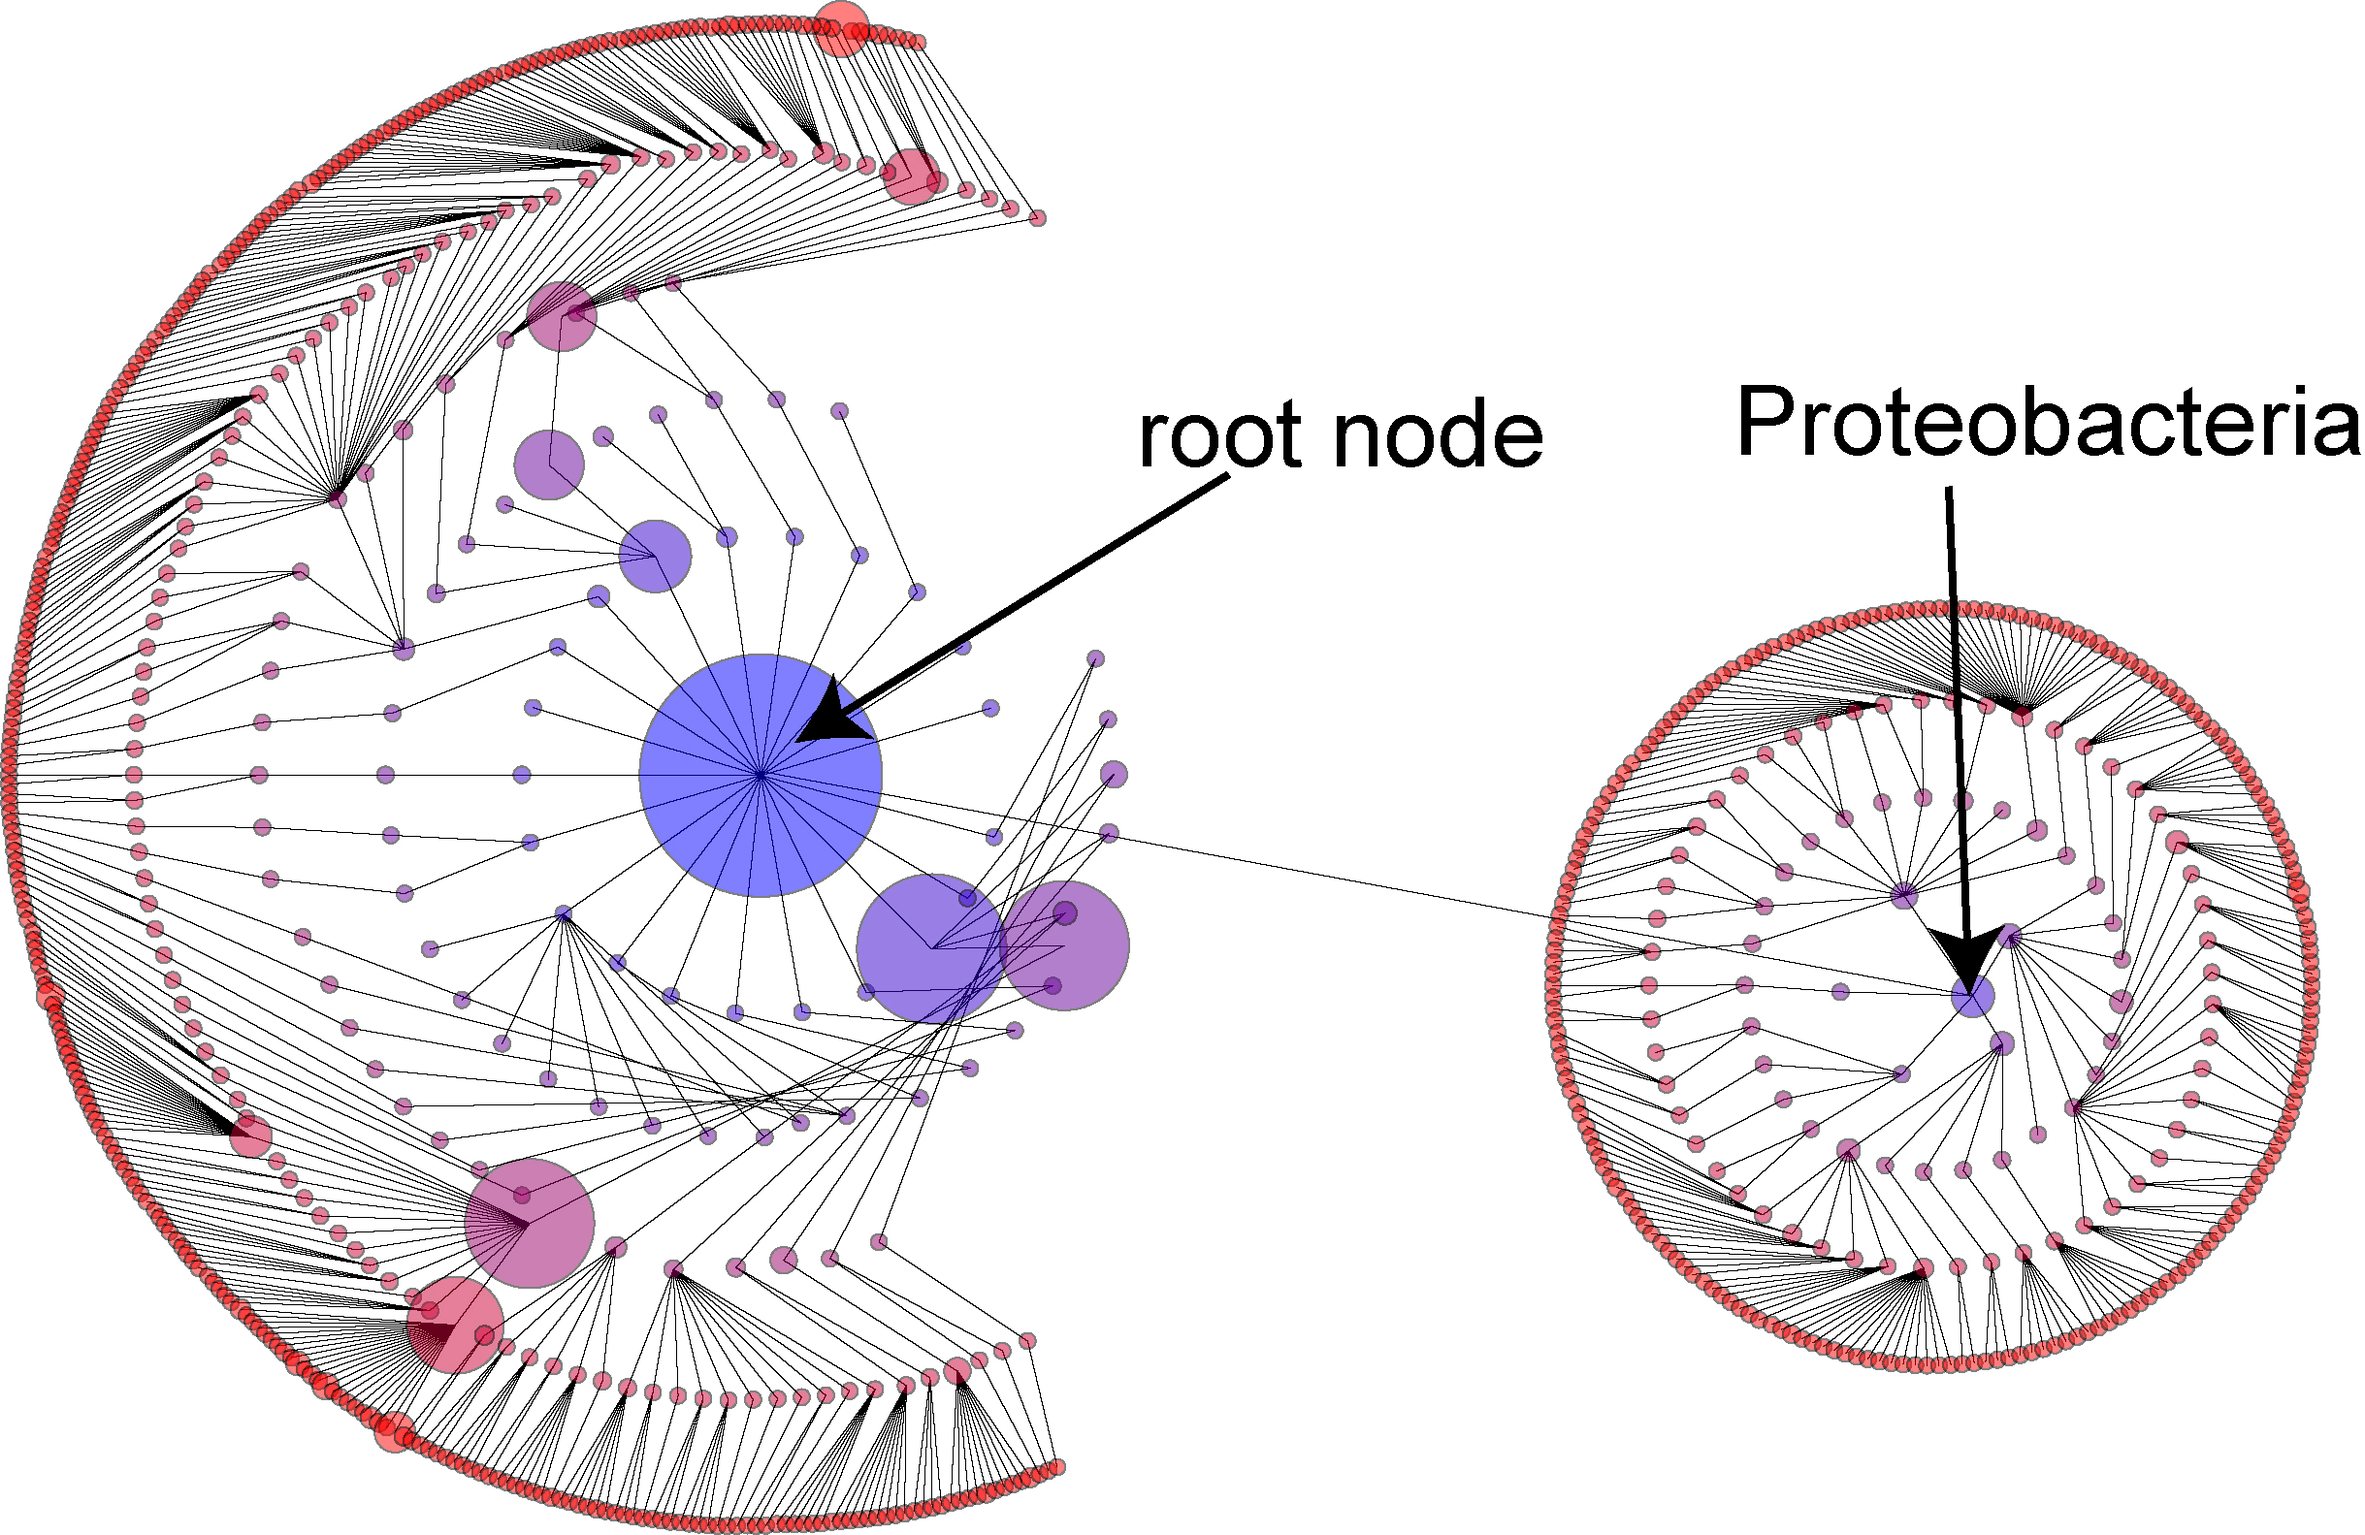
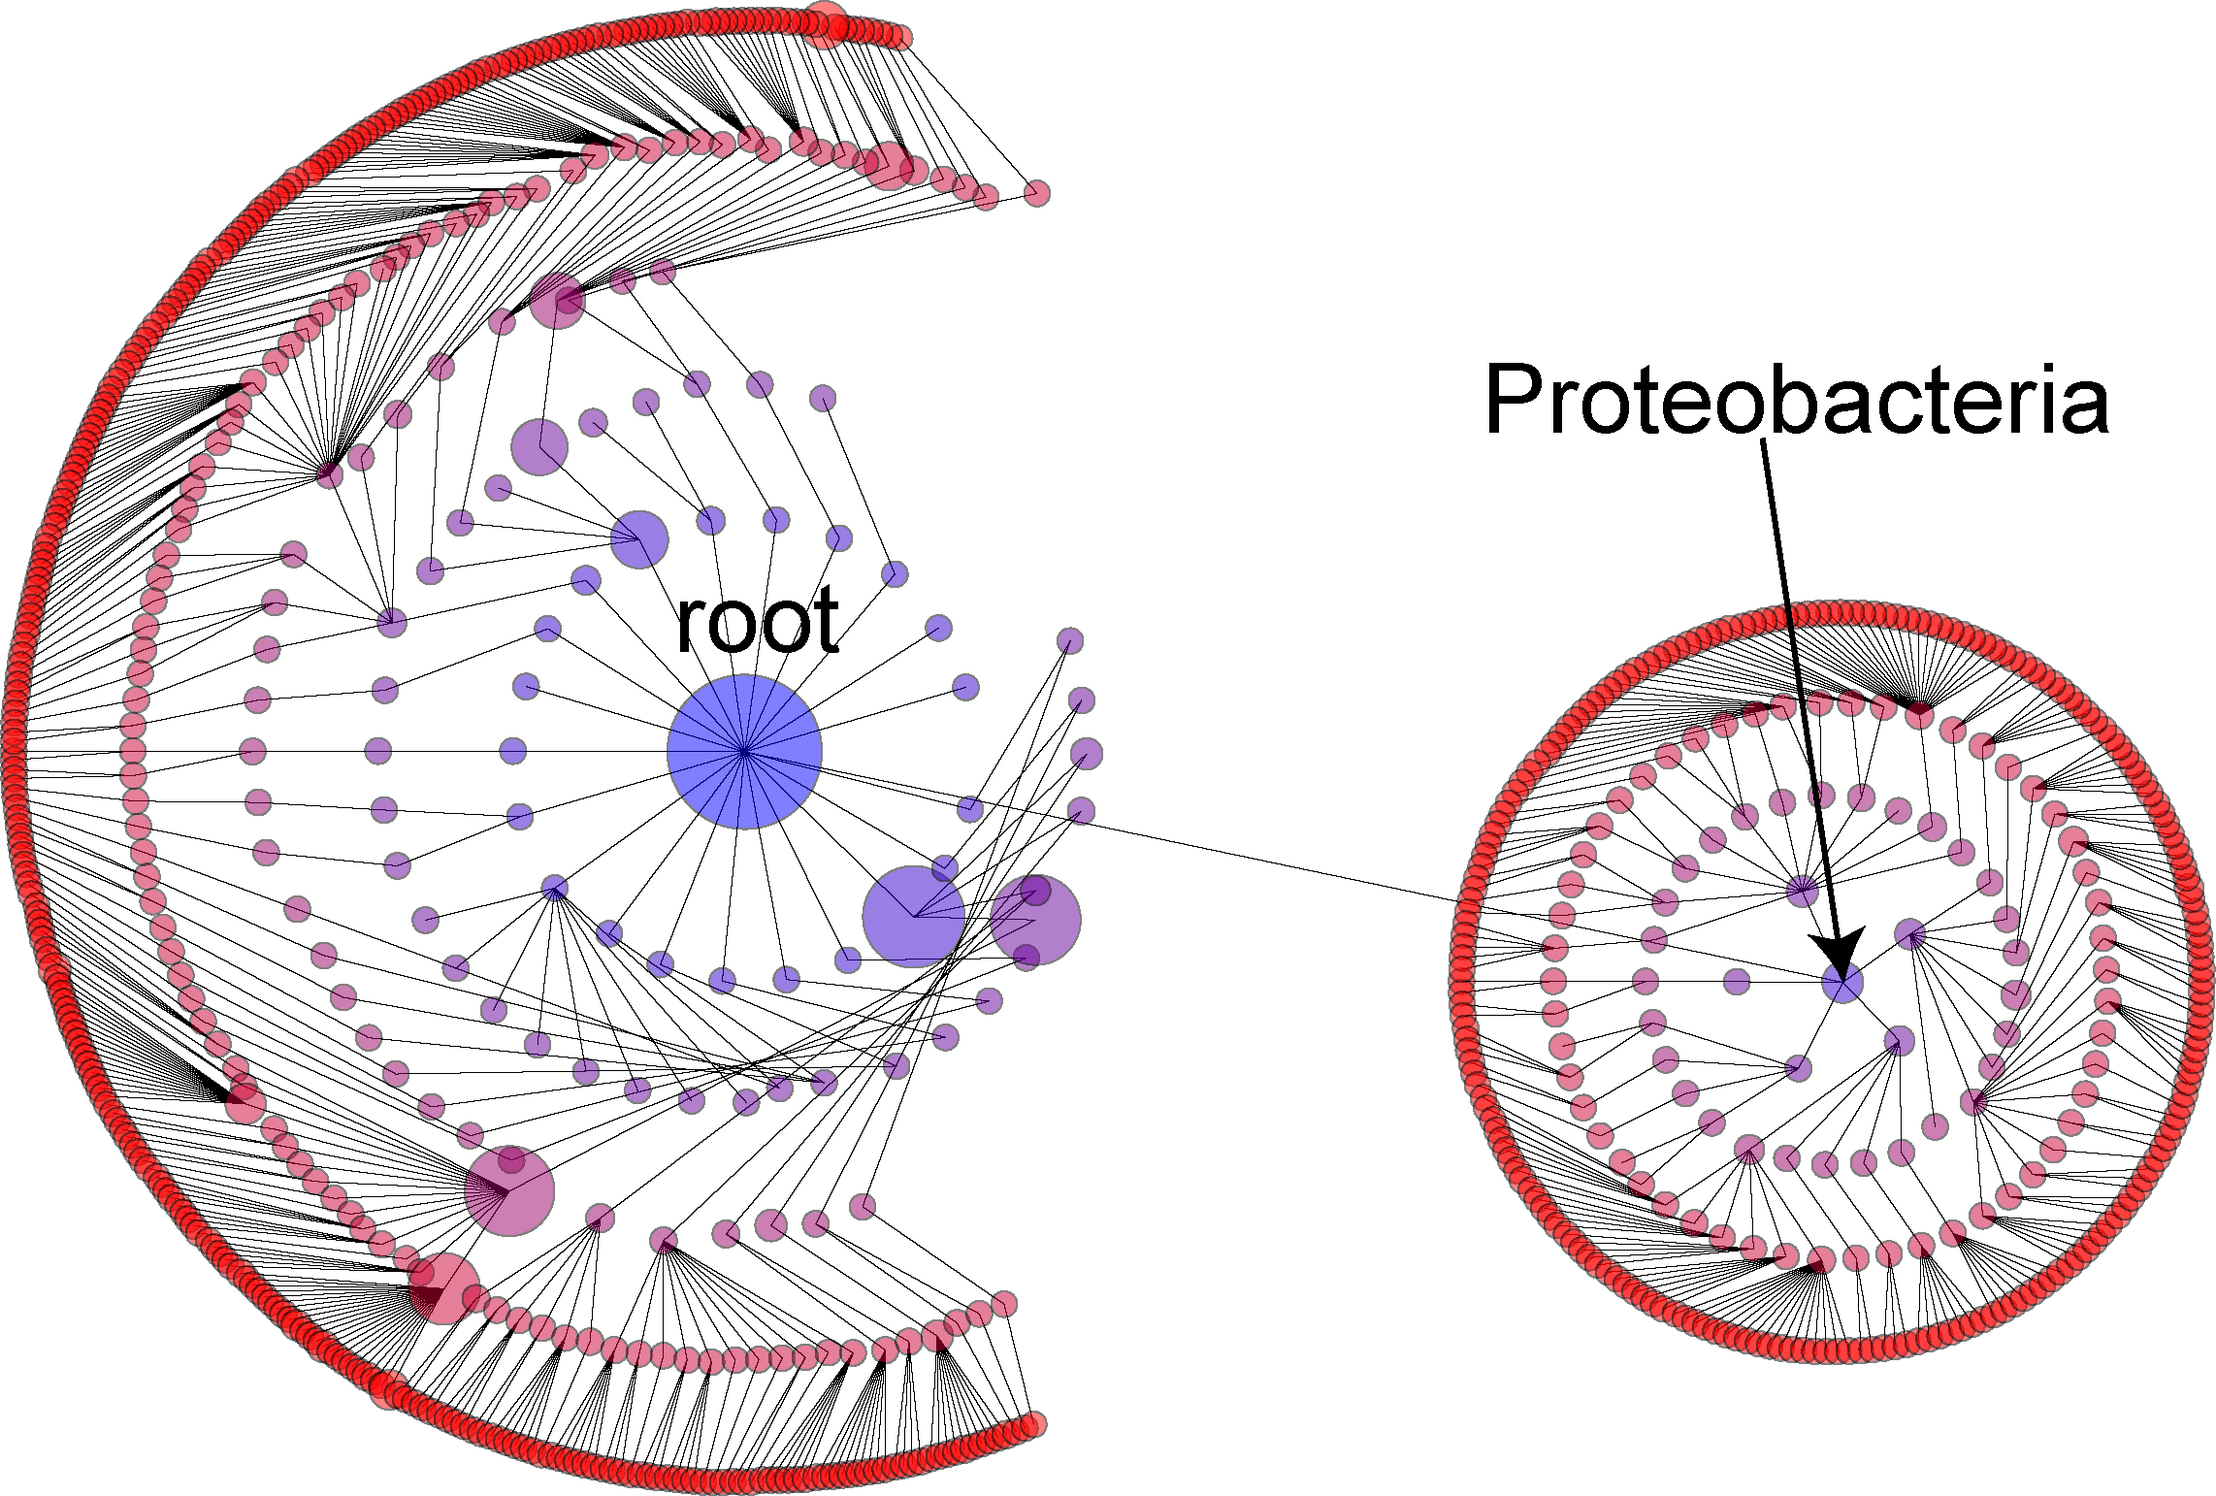
better images for the documentation; opacity now correctly defaults to fully non-trasparent..

diff --git a/src/genomicsForceDemo.html b/src/genomicsForceDemo.html
@@ -46,13 +46,13 @@
 		
 		<p>If in the <a href=ForceTree.html?FileToOpen=ismeJRDP_CaseControl.json>demonstration</a> we hover the mouse over each of 
 		the large dots at the phylum level, we see that the three most abundant phyla in our samples were Phylum Firmicutes (with 
-		340,933 sequences), Phylum Bacteroidetes (with 142,231 sequences)and Phylum Proteobacteria (with 67,926 sequences) as
+		340,933 sequences), Phylum Bacteroidetes (with 142,231 sequences) and Phylum Proteobacteria (with 67,926 sequences) as
 		we might expect from a human gut micro-environment.
 		
 		<p>One of the nice things about the demonstration is that we can switch between a traditional circular 
-		phylogenetic tree (as in the Figure above) and a Force Tree view.  We can do this by clicking on
-		the "reanimate" button in the left hand control panel.   When we do this, the view switches to a view in
-		which opposing forces position each node.  These forces include "gravity" which tends to pull each node
+		phylogenetic tree (as in the figure above) and a Force Tree view.  We can do this by clicking on
+		the "reanimate" button in the left hand control panel.   On hitting this button, we switch to a view 
+		 in which opposing forces position each node.  These forces include "gravity" which tends to pull each node
 		to the center of the screen, a repulsive focce between each node and an elastic spring-like force that 
 		in this case reflects the phyologentic distance between different taxonomic levels (so for example the
 		distance between genus and family will be shorter than the distance between genus and order):
@@ -66,7 +66,7 @@
 		<p> To switch back to the constrained view, hit "T" on the keyboard (or click on the "arrange (entire tree)" button
 		 in the left control panel).
 		
-		<p>Another nice thing about the view is that we can drag individual sections of the tree to where we want.
+		<p>Another nice thing about the view is that we can drag individual sections of the tree to different regions of the screen.
 		In the below view, we have dragged the node representing Proteobacteria to the corner of the screen. 
 		We then hit the "A" button (or click on the "arrange (around last selected)" button in the left control panel):
 		
@@ -92,7 +92,8 @@
 		 height=400 width=650 align=middle src="threeLevelsInfernce.jpg"></img></center>
 		
 		<p> This allows us to visualize inference information in a way that is hierarchcially sensitive to 
-		taxonomic information.  This is a rich visualization that will reveal patterns that may not be obvious when
+		taxonomic information.  Larger nodes are taxa that are more significantly different between case and control.
+		   This is a rich visualization that will reveal patterns that may not be obvious when
 		 considering taxomomic and inferential relationships separately.
 		 
 		 <h3>Selecting subsets of multi-dimensional datasets in a hierarchically aware matter</h3>

diff --git a/src/d3ForceTree.js b/src/d3ForceTree.js
@@ -1607,15 +1607,15 @@ this.arrangeForcePlot = function(arrangeChildren)
 	if( ! root || ! arrangeChildren)
 	{
 		root = statics.getRoot();
-		root.x =  w / 2.0  + 20;
+		root.x =  w / 2.0  + 20.0;
 		root.y = h /2.0;
 	}
 	
-	var radius = Math.min(w,h)/2;
+	var radius = parseFloat( Math.min(w,h))/2.0;
 	
-	radius = radius - radius * aDocument.getElementById("gravitySlider").value/100;
+	radius = radius - radius * parseFloat(aDocument.getElementById("gravitySlider").value)/100.0;
 
-	var localMinLevel = 0;
+	var localMinLevel = 0.0;
 	
 	if(  arrangeChildren &&  lastSelected)
 	{
@@ -1623,15 +1623,16 @@ this.arrangeForcePlot = function(arrangeChildren)
 		localMinLevel = lastSelected.nodeDepth;
 	}
 	
+	localMinLevel = parseFloat(localMinLevel);
 		
-	var piTwice= 2* Math.PI ;
+	var piTwice= 2.0* Math.PI ;
 	
-	var range = statics.getMaxLevel() - localMinLevel
+	var range = parseFloat( statics.getMaxLevel() - localMinLevel)
 	for( var x=0; x < nodesToRun.length; x++) if( nodesToRun[x].doNotShow==false ) 
 	{
 		nodesToRun[x].fixed=false;
 		nodesToRun[x].userMoved = false;
-		var aPosition = numAssignedArray[nodesToRun[x].nodeDepth]
+		var aPosition = parseFloat(numAssignedArray[nodesToRun[x].nodeDepth])
 				/numVisibleArray[nodesToRun[x].nodeDepth];
 		
 		var aRad = (parseFloat(nodesToRun[x].nodeDepth)- localMinLevel)/range * radius;

diff --git a/src/ForceTree.html b/src/ForceTree.html
@@ -84,8 +84,7 @@
 		gravity: <input type=number id="localGravity" value=2.0 onkeypress="return myGo.isNumber(event)"></input> <br>
 
 		Opacity Adjust <input type="range" id="opacitySlider" min="0"
-			max="100" +
-			"value="90" onchange=myGo.redrawScreen()></input> <br>Noise<input
+			max="100" value="100" onchange=myGo.redrawScreen()></input> <br>Noise<input
 			type="range" id="noiseSlider" min="0" max="100" value="0"
 			onchange=myGo.addNoise()></input> <br>
 		<input type=checkbox checked=true id="treeAwareSort">tree
